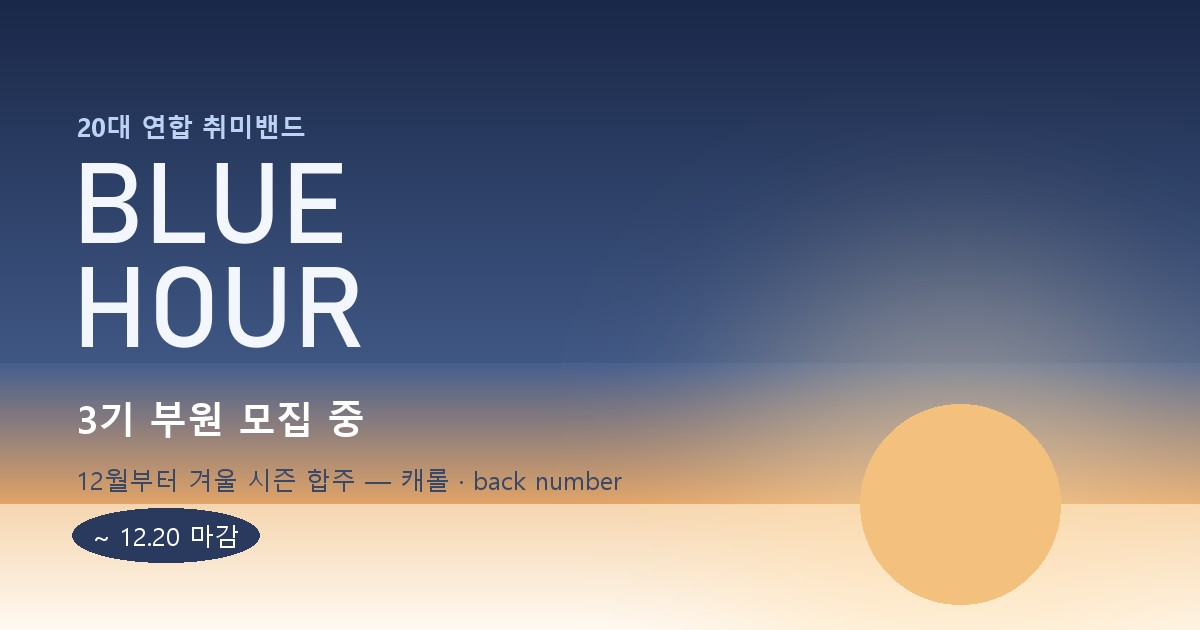
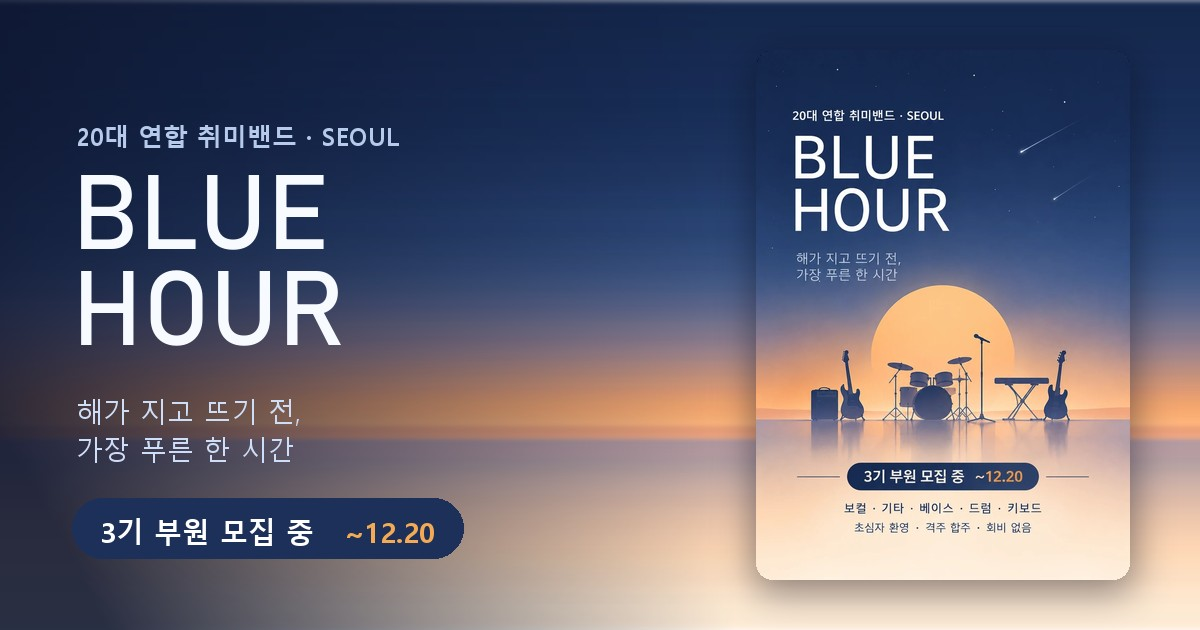
feat: OG 커버를 포스터 아트로 재제작 + 하이볼 탄산 기포 전면 제거
OG 커버
- 직접 그린 그라데이션 대신 실제 포스터 아트를 카드로 배치.
  배경은 포스터의 그라데이션 컬럼을 리샘플해 톤을 정확히 맞춤
- 좌측 텍스트 가독성용 스크림을 가로+세로로 넣음. 하단이 크림색이라
  가로 스크림만으로는 태그라인 대비가 떨어졌다
- 실측 대비: BLUE HOUR 11.00 / 태그라인 4.83 / 상단 라벨 9.01 (전부 AA)

탄산 기포 제거
- .fizz 21개 + .bubbles 18개, 두 세트가 통째로 남아 있었다.
  하이볼(탄산) 시절의 연출이라 블루아워에는 전혀 맞지 않는다
- 관련 CSS(.fizz, .fizz-b, .bubbles, .bubble, @keyframes fizzpop, @keyframes rise,
  nth-child 숨김 규칙)까지 전부 정리 — index.html 6.7KB 감소
- 눈(#snow)은 겨울 연출이라 유지

확인: fizz/bubble 참조 0, 자원 18개 중 404는 로컬 전용 insights 스크립트 1건뿐

diff --git a/index.html b/index.html
@@ -86,79 +86,13 @@
   }
 
   /* ── 탄산 기포 (Carbonation) ── */
-  .bubbles {
-    position: fixed; inset: 0; z-index: 1;
-    pointer-events: none; overflow: hidden;
-  }
-  .bubble {
-    position: absolute; bottom: -10vh;
-    width: var(--sz, 20px); height: var(--sz, 20px);
-    border-radius: 50%;
-    background: radial-gradient(circle at 32% 28%,
-      rgba(255,255,255,0.95) 0%,
-      rgba(251,242,230,0.55) 38%,
-      rgba(235,201,164,0.20) 70%,
-      rgba(192,107,53,0.12) 100%);
-    border: 1px solid rgba(192, 107, 53, 0.30);
-    box-shadow:
-      inset -2px -3px 6px rgba(168, 90, 48, 0.20),
-      inset 3px 3px 7px rgba(255, 255, 255, 0.85),
-      0 0 12px rgba(235, 201, 164, 0.40);
-    opacity: 0;
-    left: var(--x, 50%);
-    animation: rise var(--dur, 14s) linear infinite;
-    animation-delay: var(--dly, 0s);
-    will-change: transform, opacity;
-  }
-  @keyframes rise {
-    0%   { transform: translate3d(0, 0, 0) scale(0.75); opacity: 0; }
-    8%   { opacity: var(--op, 0.5); }
-    35%  { transform: translate3d(18px, -38vh, 0) scale(1); }
-    65%  { transform: translate3d(-14px, -70vh, 0) scale(1.08); }
-    88%  { opacity: var(--op, 0.5); }
-    100% { transform: translate3d(8px, -115vh, 0) scale(1.15); opacity: 0; }
-  }
 
   /* ── 초기 탄산 폭발 (1회 재생) ── */
-  .fizz {
-    position: fixed; inset: 0; z-index: 1;
-    pointer-events: none; overflow: hidden;
-  }
-  .fizz-b {
-    position: absolute;
-    left: var(--fx, 50%); bottom: var(--fy, -5vh);
-    width: var(--fsz, 30px); height: var(--fsz, 30px);
-    border-radius: 50%;
-    background: radial-gradient(circle at 30% 26%,
-      rgba(255,255,255,1) 0%,
-      rgba(251,242,230,0.7) 34%,
-      rgba(235,201,164,0.30) 68%,
-      rgba(192,107,53,0.18) 100%);
-    border: 1.5px solid rgba(192, 107, 53, 0.40);
-    box-shadow:
-      inset -3px -4px 8px rgba(168, 90, 48, 0.25),
-      inset 4px 4px 9px rgba(255, 255, 255, 0.9),
-      0 0 18px rgba(224, 180, 138, 0.55);
-    opacity: 0;
-    animation: fizzpop var(--fdur, 2.2s) cubic-bezier(0.18, 0.85, 0.35, 1) var(--fdly, 0s) 1 forwards;
-    will-change: transform, opacity;
-  }
   /* 확 솟구쳤다가 팡 하고 부풀며 사라짐 */
-  @keyframes fizzpop {
-    0%   { transform: translate3d(0, 0, 0) scale(0.2);  opacity: 0; }
-    6%   { opacity: 0.9; }
-    55%  { transform: translate3d(var(--fdx, 10px), calc(var(--frise, -60vh) * 0.62), 0) scale(1); opacity: 0.85; }
-    82%  { transform: translate3d(calc(var(--fdx, 10px) * -0.5), var(--frise, -60vh), 0) scale(1.15); opacity: 0.7; }
-    /* 팡! — 터지는 순간 급격히 부풀며 투명해짐 */
-    100% { transform: translate3d(0, calc(var(--frise, -60vh) - 6vh), 0) scale(2.1); opacity: 0; }
-  }
 
   @media (max-width: 768px) {
-    .bubble:nth-child(n+11) { display: none; }
-    .fizz-b:nth-child(n+16) { display: none; }
   }
   @media (prefers-reduced-motion: reduce) {
-    .bubbles, .fizz { display: none; }
   }
 
   /* ── NAV ── */
@@ -1072,58 +1006,8 @@
 <body>
 
 
-<div class="bubbles" aria-hidden="true">
-  <div class="bubble" style="--x:6%;  --sz:18px; --dur:16s; --dly:0s;    --op:0.45;"></div>
-  <div class="bubble" style="--x:14%; --sz:30px; --dur:21s; --dly:-4s;   --op:0.38;"></div>
-  <div class="bubble" style="--x:23%; --sz:13px; --dur:12s; --dly:-8s;   --op:0.55;"></div>
-  <div class="bubble" style="--x:31%; --sz:42px; --dur:26s; --dly:-2s;   --op:0.30;"></div>
-  <div class="bubble" style="--x:39%; --sz:22px; --dur:18s; --dly:-11s;  --op:0.42;"></div>
-  <div class="bubble" style="--x:47%; --sz:16px; --dur:14s; --dly:-6s;   --op:0.50;"></div>
-  <div class="bubble" style="--x:55%; --sz:35px; --dur:23s; --dly:-14s;  --op:0.34;"></div>
-  <div class="bubble" style="--x:63%; --sz:19px; --dur:17s; --dly:-3s;   --op:0.46;"></div>
-  <div class="bubble" style="--x:71%; --sz:27px; --dur:20s; --dly:-9s;   --op:0.38;"></div>
-  <div class="bubble" style="--x:79%; --sz:14px; --dur:13s; --dly:-16s;  --op:0.52;"></div>
-  <div class="bubble" style="--x:87%; --sz:38px; --dur:25s; --dly:-5s;   --op:0.32;"></div>
-  <div class="bubble" style="--x:94%; --sz:21px; --dur:15s; --dly:-12s;  --op:0.44;"></div>
-  <div class="bubble" style="--x:18%; --sz:11px; --dur:11s; --dly:-18s;  --op:0.58;"></div>
-  <div class="bubble" style="--x:44%; --sz:26px; --dur:19s; --dly:-20s;  --op:0.40;"></div>
-  <div class="bubble" style="--x:67%; --sz:9px;  --dur:10s; --dly:-7s;   --op:0.60;"></div>
-  <div class="bubble" style="--x:83%; --sz:24px; --dur:22s; --dly:-15s;  --op:0.40;"></div>
-  <div class="bubble" style="--x:10%; --sz:32px; --dur:24s; --dly:-13s;  --op:0.34;"></div>
-  <div class="bubble" style="--x:59%; --sz:12px; --dur:12s; --dly:-17s;  --op:0.54;"></div>
-</div>
 
 <!-- 초기 탄산 폭발: 3파도로 팍! 팍! 팍! -->
-<div class="fizz" aria-hidden="true">
-  <!-- 1파: 즉시 -->
-  <div class="fizz-b" style="--fx:12%; --fsz:46px; --fdur:2.0s; --fdly:0.05s; --frise:-72vh; --fdx:22px;"></div>
-  <div class="fizz-b" style="--fx:28%; --fsz:30px; --fdur:1.7s; --fdly:0.00s; --frise:-85vh; --fdx:-18px;"></div>
-  <div class="fizz-b" style="--fx:44%; --fsz:56px; --fdur:2.3s; --fdly:0.12s; --frise:-64vh; --fdx:30px;"></div>
-  <div class="fizz-b" style="--fx:61%; --fsz:24px; --fdur:1.5s; --fdly:0.02s; --frise:-95vh; --fdx:-24px;"></div>
-  <div class="fizz-b" style="--fx:77%; --fsz:40px; --fdur:2.1s; --fdly:0.09s; --frise:-78vh; --fdx:16px;"></div>
-  <div class="fizz-b" style="--fx:91%; --fsz:34px; --fdur:1.9s; --fdly:0.15s; --frise:-70vh; --fdx:-28px;"></div>
-
-  <!-- 2파: 팍! -->
-  <div class="fizz-b" style="--fx:5%;  --fsz:28px; --fdur:1.8s; --fdly:0.35s; --frise:-88vh; --fdx:20px;"></div>
-  <div class="fizz-b" style="--fx:20%; --fsz:52px; --fdur:2.4s; --fdly:0.42s; --frise:-60vh; --fdx:-26px;"></div>
-  <div class="fizz-b" style="--fx:36%; --fsz:22px; --fdur:1.6s; --fdly:0.30s; --frise:-92vh; --fdx:14px;"></div>
-  <div class="fizz-b" style="--fx:53%; --fsz:44px; --fdur:2.2s; --fdly:0.48s; --frise:-68vh; --fdx:-32px;"></div>
-  <div class="fizz-b" style="--fx:69%; --fsz:36px; --fdur:2.0s; --fdly:0.38s; --frise:-80vh; --fdx:24px;"></div>
-  <div class="fizz-b" style="--fx:85%; --fsz:26px; --fdur:1.7s; --fdly:0.45s; --frise:-90vh; --fdx:-16px;"></div>
-
-  <!-- 3파: 파앙! -->
-  <div class="fizz-b" style="--fx:16%; --fsz:38px; --fdur:2.1s; --fdly:0.75s; --frise:-75vh; --fdx:-22px;"></div>
-  <div class="fizz-b" style="--fx:33%; --fsz:60px; --fdur:2.6s; --fdly:0.88s; --frise:-56vh; --fdx:34px;"></div>
-  <div class="fizz-b" style="--fx:49%; --fsz:26px; --fdur:1.8s; --fdly:0.70s; --frise:-94vh; --fdx:-18px;"></div>
-  <div class="fizz-b" style="--fx:65%; --fsz:48px; --fdur:2.3s; --fdly:0.82s; --frise:-66vh; --fdx:28px;"></div>
-  <div class="fizz-b" style="--fx:80%; --fsz:32px; --fdur:1.9s; --fdly:0.92s; --frise:-84vh; --fdx:-30px;"></div>
-  <div class="fizz-b" style="--fx:96%; --fsz:42px; --fdur:2.2s; --fdly:0.78s; --frise:-72vh; --fdx:18px;"></div>
-
-  <!-- 잔여 소기포 -->
-  <div class="fizz-b" style="--fx:24%; --fsz:16px; --fdur:1.4s; --fdly:1.15s; --frise:-98vh; --fdx:12px;"></div>
-  <div class="fizz-b" style="--fx:57%; --fsz:18px; --fdur:1.5s; --fdly:1.25s; --frise:-96vh; --fdx:-14px;"></div>
-  <div class="fizz-b" style="--fx:88%; --fsz:14px; --fdur:1.3s; --fdly:1.10s; --frise:-99vh; --fdx:10px;"></div>
-</div>
 
 <nav>
   <a href="#" class="nav-logo">BLUE HOUR</a>
